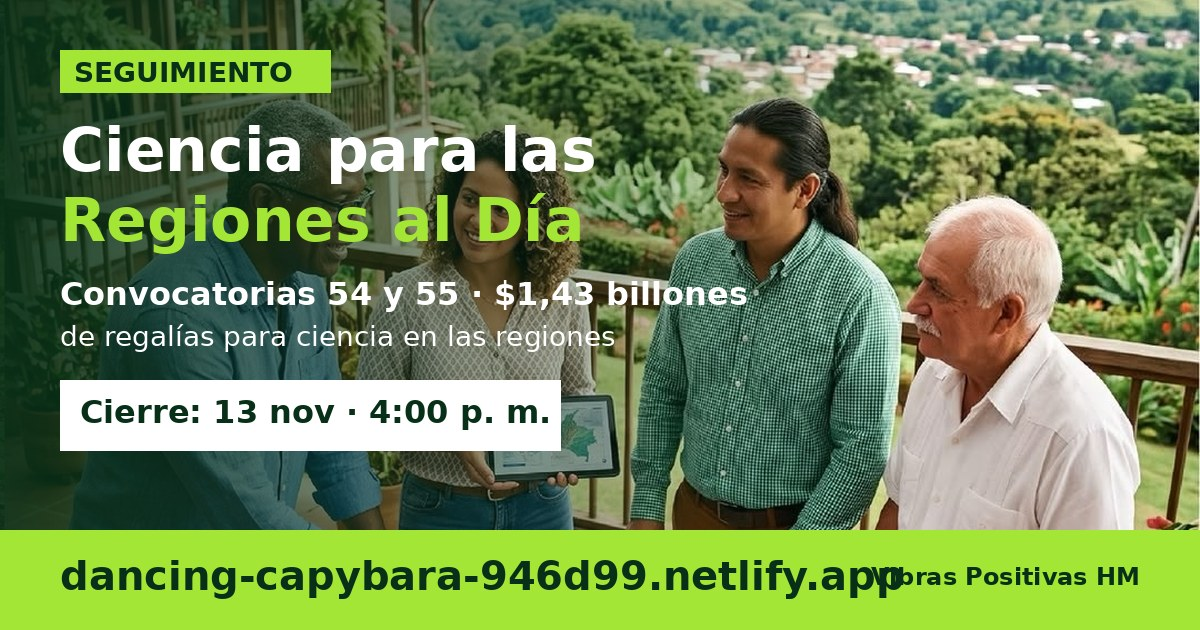
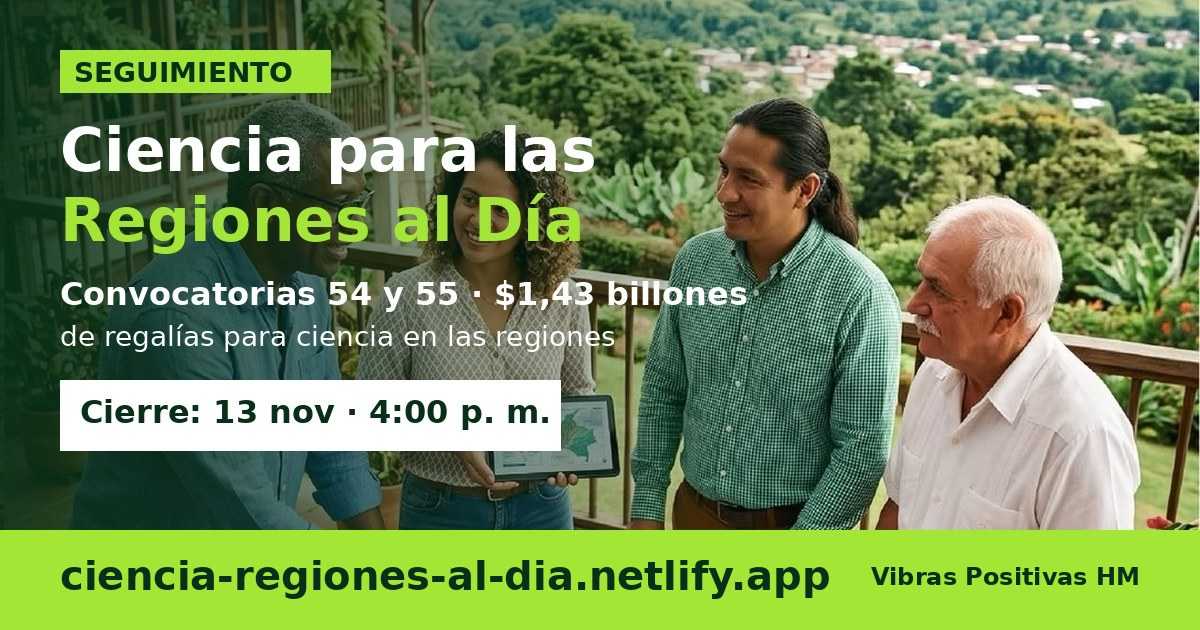
URL definitiva: ciencia-regiones-al-dia.netlify.app
Claude-Session: https://claude.ai/code/session_01Qv96KUPwZxbxAp69Mb7aYL

Changed region(s): [[0.0617, 0.8746, 0.7708, 0.9651]]

diff --git a/index.html b/index.html
@@ -6,17 +6,17 @@
 <title>Ciencia para las Regiones al Día · Convocatorias 54 y 55 de regalías</title>
 <meta name="description" content="Seguimiento ciudadano a las convocatorias 54 y 55 de MinCiencias: $1,43 billones de regalías para ciencia en las regiones. Cifras, cronograma, alianzas, oportunidades para el Bajo Cauca, noticias al minuto y derecho de petición.">
 <meta name="theme-color" content="#08301a">
-<link rel="canonical" href="https://dancing-capybara-946d99.netlify.app/">
+<link rel="canonical" href="https://ciencia-regiones-al-dia.netlify.app/">
 <!-- Vista previa al compartir (Open Graph / Twitter) -->
 <meta property="og:type" content="website">
 <meta property="og:title" content="Ciencia para las Regiones al Día · $1,43 billones de regalías">
 <meta property="og:description" content="Convocatorias 54 y 55 de MinCiencias: quién puede postular, cuánta plata hay, qué se viene para el Bajo Cauca y cómo hacerle seguimiento. Cierre: 13 nov, 4:00 p. m.">
-<meta property="og:image" content="https://dancing-capybara-946d99.netlify.app/og-image.jpg">
-<meta property="og:url" content="https://dancing-capybara-946d99.netlify.app/">
+<meta property="og:image" content="https://ciencia-regiones-al-dia.netlify.app/og-image.jpg">
+<meta property="og:url" content="https://ciencia-regiones-al-dia.netlify.app/">
 <meta name="twitter:card" content="summary_large_image">
 <meta name="twitter:title" content="Ciencia para las Regiones al Día · $1,43 billones de regalías">
 <meta name="twitter:description" content="Seguimiento ciudadano a las convocatorias 54 y 55 de MinCiencias. Cierre: 13 nov, 4:00 p. m.">
-<meta name="twitter:image" content="https://dancing-capybara-946d99.netlify.app/og-image.jpg">
+<meta name="twitter:image" content="https://ciencia-regiones-al-dia.netlify.app/og-image.jpg">
 <meta property="og:image:width" content="1200">
 <meta property="og:image:height" content="630">
 <meta property="og:locale" content="es_CO">
@@ -789,10 +789,10 @@ $('#psend').onclick=()=>{if(!okDatos())return;const to=dests();if(!to.length)ret
  const sub='Derecho de petición – Convocatorias 54 y 55 SGR CTeI – '+$('#pm').value;
  location.href='mailto:'+to.join(',')+'?subject='+encodeURIComponent(sub)+'&body='+encodeURIComponent($('#pt').value)};
 $('#pcopy').onclick=async()=>{try{await navigator.clipboard.writeText('Para: '+dests().join(', ')+'\n\n'+$('#pt').value);toast(T('Carta copiada con los correos','Letter copied with recipients'))}catch(e){$('#pt').select();document.execCommand('copy');toast(T('Carta copiada','Copied'))}};
-$('#pwa').onclick=()=>{window.open('https://wa.me/?text='+encodeURIComponent('Exijamos información sobre la plata de regalías para ciencia en nuestra región. Envíe su derecho de petición desde aquí: https://dancing-capybara-946d99.netlify.app/#peticion'),'_blank')};
+$('#pwa').onclick=()=>{window.open('https://wa.me/?text='+encodeURIComponent('Exijamos información sobre la plata de regalías para ciencia en nuestra región. Envíe su derecho de petición desde aquí: https://ciencia-regiones-al-dia.netlify.app/#peticion'),'_blank')};
 
 /* compartir */
-$('#share').onclick=async()=>{const d={title:'Ciencia para las Regiones al Día',text:T('$1,43 billones de regalías para ciencia en las regiones. Cierre: 13 nov, 4:00 p. m.','COP 1.43 trillion in royalties for regional science. Deadline: Nov 13, 4 p.m.'),url:'https://dancing-capybara-946d99.netlify.app/'};
+$('#share').onclick=async()=>{const d={title:'Ciencia para las Regiones al Día',text:T('$1,43 billones de regalías para ciencia en las regiones. Cierre: 13 nov, 4:00 p. m.','COP 1.43 trillion in royalties for regional science. Deadline: Nov 13, 4 p.m.'),url:'https://ciencia-regiones-al-dia.netlify.app/'};
  if(navigator.share){try{await navigator.share(d)}catch(e){}}else window.open('https://wa.me/?text='+encodeURIComponent(d.text+' '+d.url),'_blank')};
 
 /* contadores y aparición */

diff --git a/sw.js b/sw.js
@@ -1,5 +1,5 @@
 // Ciencia para las Regiones al Día — service worker (Vibras Positivas HM)
-const C='cra-v3';
+const C='cra-v4';
 const CORE=['./','index.html','manifest.json','icon-192.png','icon-512.png','og-image.jpg',
 'img/foto-campo.jpg','img/foto-alianza.jpg','img/foto-paneles.jpg','img/foto-cultivo.jpg','img/foto-drones.jpg',
 'img/pieza-ejes.jpg','img/pieza-alianza.jpg','img/pieza-postula.jpg'];

diff --git a/README.md b/README.md
@@ -2,7 +2,7 @@
 
 App ciudadana (PWA) de **Vibras Positivas HM** para hacerle seguimiento a las convocatorias **54 y 55** de MinCiencias: $1,43 billones del Sistema General de Regalías para ciencia, tecnología e innovación en las regiones. Cierre: **viernes 13 de noviembre de 2026, 4:00 p. m.** (hora de Colombia).
 
-**URL:** https://dancing-capybara-946d99.netlify.app
+**URL:** https://ciencia-regiones-al-dia.netlify.app
 **Repo:** haroldco45/ciencia-regiones-al-dia
 
 ## Qué trae
@@ -33,7 +33,7 @@ scripts/robot.mjs
 1. Cree el repo `haroldco45/ciencia-regiones-al-dia` y suba todos los archivos con las mismas carpetas.
 2. En el repo: **Settings → Actions → General → Workflow permissions → Read and write permissions**.
 3. En **Actions → Robot de noticias → Run workflow**, córralo una vez a mano.
-4. En Netlify: **Add new site → Import from GitHub** con este repo (sitio publicado como dancing-capybara-946d99). Cada vez que el robot guarde noticias, Netlify publica solo.
+4. En Netlify: **Add new site → Import from GitHub** con este repo y el nombre `ciencia-regiones-al-dia`. Cada vez que el robot guarde noticias, Netlify publica solo.
 
 ## Para revisar
 - Los correos de la Alcaldía de Caucasia (`alcaldia@` y `planeacion@caucasia-antioquia.gov.co`) salen de documentos judiciales públicos; confírmelos en la página de la Alcaldía antes de enviar.
